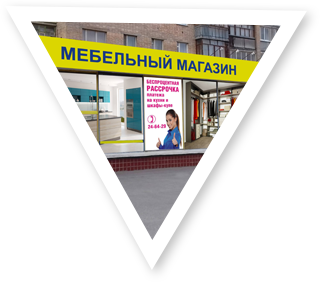
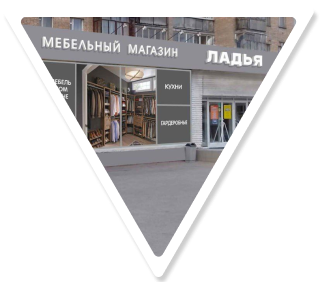
убрал новогодние фичи и заменил изображение маркера

diff --git a/functions.php b/functions.php
@@ -210,14 +210,10 @@
             echo wp_strip_all_tags($short_description);
 
             // Если страница категории продукта woocommerce
-        } elseif (is_product_category()) {
-            foreach (wp_get_post_terms(get_the_id(), 'product_cat') as $term) {
-                if ($term) {
-                    //echo $term->name . '<br>'; // product category name
-                    if ($term->description) {
-                        echo $term->description; // Product category description
-                    }
-                }
+        } elseif ( is_product_category() ) {
+            $term = get_queried_object(); // Получаем текущую категорию
+            if( $term && !empty( $term->description ) ){
+                echo wp_strip_all_tags( $term->description ); // Описание только текущей категории
             }
 
             // Если страница портфолио
@@ -227,22 +223,18 @@
             // Если страница категорий портфолио
         } elseif (is_tax('portfolio-cat')) {
             $term = get_queried_object(); // Получаем текущий термин
-            echo $term->description;
+            echo wp_strip_all_tags( $term->description );
             //echo 'Категория портфолио';
 
             // Если страница магазина	
-        } elseif ( is_shop() ) {
-            $shop_page_id = wc_get_page_id('shop');
-            echo get_the_excerpt($shop_page_id);
-
-            // Если обычная страница
-        } elseif ( is_page() ) {
-            echo get_the_excerpt();
-        
-        // Во всех других случаях
-        } else {
-            echo get_the_title();
-        }
+		} elseif ( is_shop() ) {
+			$shop_page_id = wc_get_page_id('shop');
+			echo wp_strip_all_tags( get_the_excerpt($shop_page_id) );
+		
+		// Если обычная страница
+		} else {
+			echo wp_strip_all_tags( get_the_excerpt() );
+		}
     }
     /*** END ДЕЛАЕМ ПРАВИЛЬНЫЙ DESCRIPTION ДЛЯ КАЖДОЙ СТРАНИЦЫ ***/
 

diff --git a/footer.php b/footer.php
@@ -527,7 +527,7 @@
     }
 </script>
 <!-- /Callback button JS -->
-	<?php include get_template_directory() . '/inc/snowflake/snowflake.php'; ?>
+	<!-- <?php include get_template_directory() . '/inc/snowflake/snowflake.php'; ?> -->
 
     <script>
         prilipalo();
